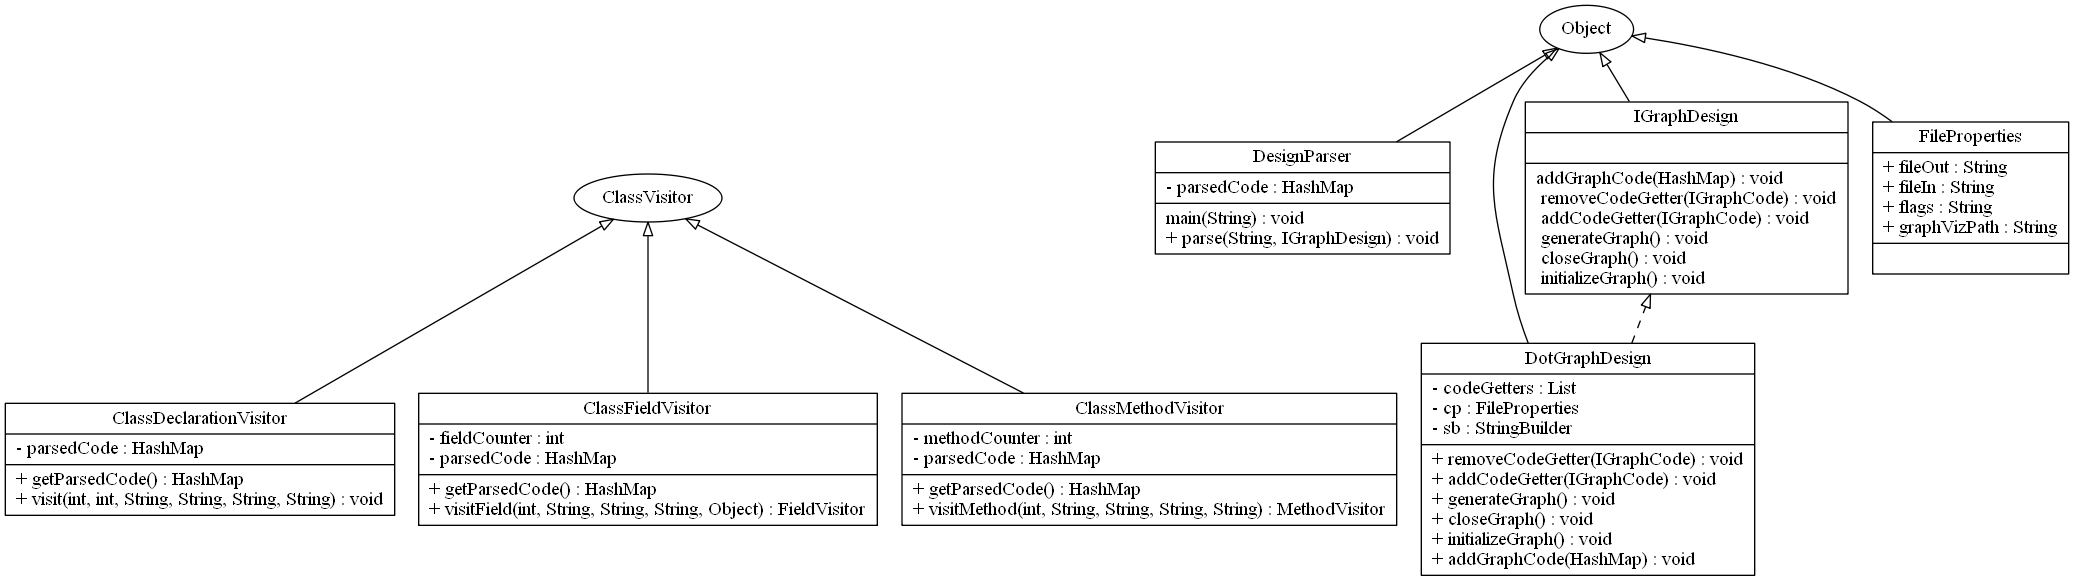
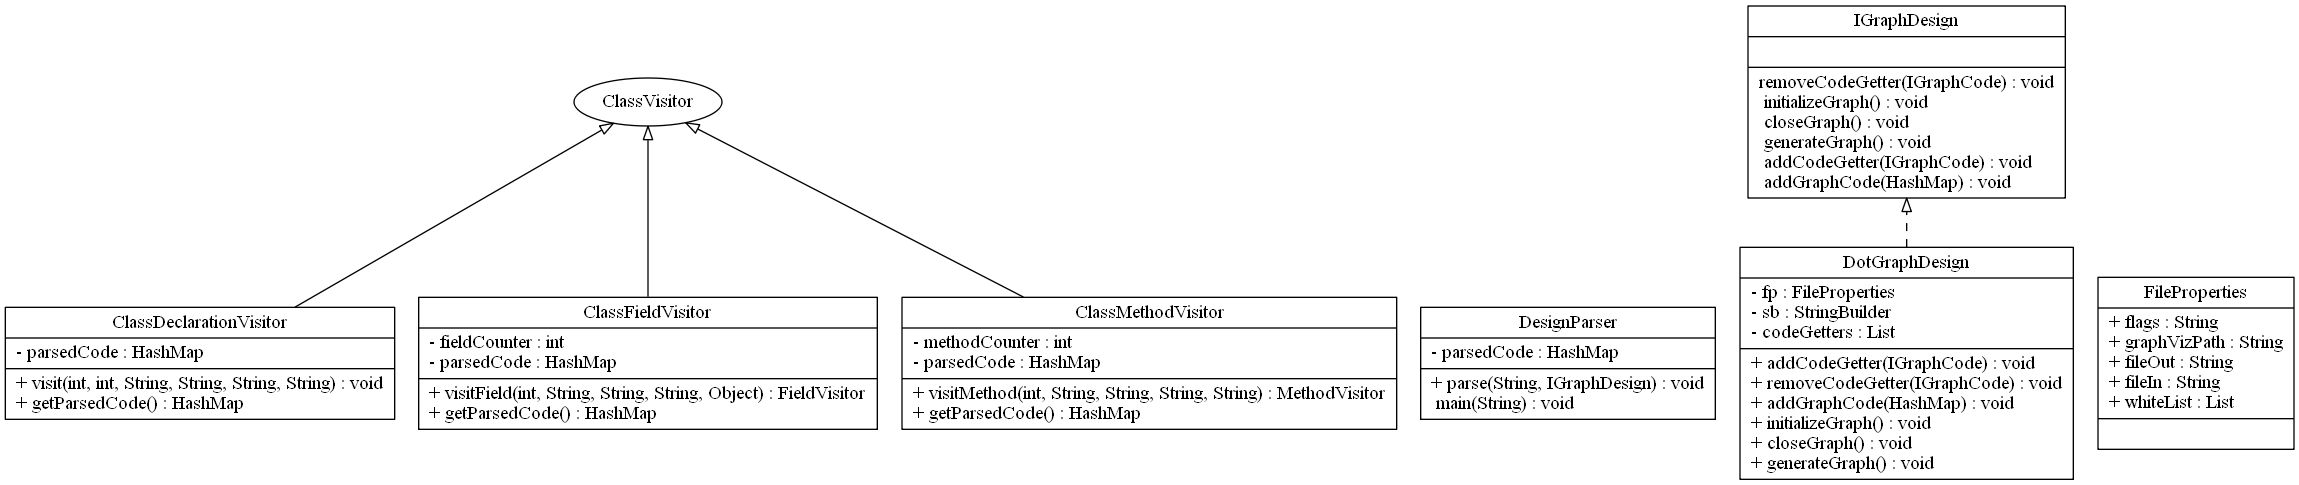
Updated README and added working White List

diff --git a/src/problem/GraphExtensionAndImplementCode.java b/src/problem/GraphExtensionAndImplementCode.java
@@ -13,22 +13,25 @@ public class GraphExtensionAndImplementCode extends IGraphCode {
 	@Override
 	public String getCode(HashMap<String, String> items) {
 		StringBuilder sb = new StringBuilder();
+		FileProperties fp = new FileProperties();
 		
 		String name = getName(items.get("className"), "/");
 		String superName = getName(items.get("extends"), "/");
 		String interFacesString = items.get("implements");
 		String[] interFaces = interFacesString.substring(1,
 				interFacesString.length() - 1).split(",");
-
-		if (superName != "") {
+		
+		if (superName != "" && !fp.whiteList.contains(superName)) {
 			sb.append(name + " -> " + superName
 					+ " [arrowhead=\"onormal\", style=\"solid\"" + "];");
 		}
 		if (!interFacesString.equals("[]")) {
 			for (String interFace : interFaces) {
 				String interFaceName = getName(interFace, "/");
-				sb.append(name + " -> " + interFaceName
-						+ " [arrowhead=\"onormal\", style=\"dashed\"" + "];");
+				if (!fp.whiteList.contains(interFaceName)) {
+					sb.append(name + " -> " + interFaceName
+							+ " [arrowhead=\"onormal\", style=\"dashed\"" + "];");
+				}
 			}
 		}
 		

diff --git a/src/problem/DotGraphDesign.java b/src/problem/DotGraphDesign.java
@@ -12,7 +12,7 @@ import problem.api.IGraphDesign;
 
 public class DotGraphDesign implements IGraphDesign {
 	private StringBuilder sb = new StringBuilder();
-	private FileProperties cp = new FileProperties();
+	private FileProperties fp = new FileProperties();
 	private List<IGraphCode> codeGetters = new ArrayList<IGraphCode>();
 
 	@Override
@@ -35,14 +35,14 @@ public class DotGraphDesign implements IGraphDesign {
 
 	@Override
 	public void generateGraph() throws IOException {
-		OutputStream out = new FileOutputStream(cp.fileIn);
+		OutputStream out = new FileOutputStream(fp.fileIn);
 		out.write(sb.toString().getBytes());
 		out.close();
 
 		Runtime rt = Runtime.getRuntime();
 		Process pr = rt
 				.exec(new String[] {
-						"cmd.exe", "/k", "\"" + cp.graphVizPath + "\" " + cp.flags + " " + cp.fileIn + " > " + cp.fileOut});
+						"cmd.exe", "/k", "\"" + fp.graphVizPath + "\" " + fp.flags + " " + fp.fileIn + " > " + fp.fileOut});
 
 	}
 

diff --git a/src/problem/FileProperties.java b/src/problem/FileProperties.java
@@ -2,12 +2,15 @@ package problem;
 
 import java.io.BufferedReader;
 import java.io.FileReader;
+import java.util.ArrayList;
+import java.util.List;
 
 public class FileProperties {
 	public String graphVizPath = "";
 	public String flags = "";
 	public String fileIn = "";
 	public String fileOut = "";
+	public List<String> whiteList = new ArrayList<String>();
 	
 	public FileProperties() {
 		// Read in properties
@@ -28,6 +31,12 @@ public class FileProperties {
 					break;
 				case "fileOut":
 					fileOut = lineArray[1].trim();
+					break;
+				case "whiteList":
+					String[] temp = lineArray[1].trim().split(",");
+					for (String s: temp) {
+						whiteList.add(s);
+					}
 					break;
 				default:
 					break;

diff --git a/README.md b/README.md
@@ -35,7 +35,7 @@ M1:	Rewrote visitors to add fields to HashMap rather than building a string.
 	When running this program, pass any number of Java classes as arguments. A main method should construct a new DesignParser
 	and a new IGraphDesign. Main should then call the parse method of DesignParser, passing in the array of Java classes and
 	the IGraphDesign. DesignParser will then generate graph code one class at a time using the IGraphDesign passed in. Any
-	implementation of IGraphDesign has access to the <Key, Value> pairs described in MORE INFO. Also, in order to properly 	generate a png file containing the auto-generated graph, the user needs to modify the properties file, located in 	input_output. The user needs to include the location of the graphviz executable. The user can also choose a different location 	for the output file including the contents of the graphviz code.
+	implementation of IGraphDesign has access to the <Key, Value> pairs described in MORE INFO. Also, in order to properly 	generate a png file containing the auto-generated graph, the user needs to modify the properties file, located in 	input_output. The user needs to include the location of the graphviz executable. The user can also choose a different location 	for the output file including the contents of the graphviz code. The user can define a white list in the properties file that 	will eliminate 	extraneous classes from being drawn in the graph.
 	
 
 ### MORE INFO ###
